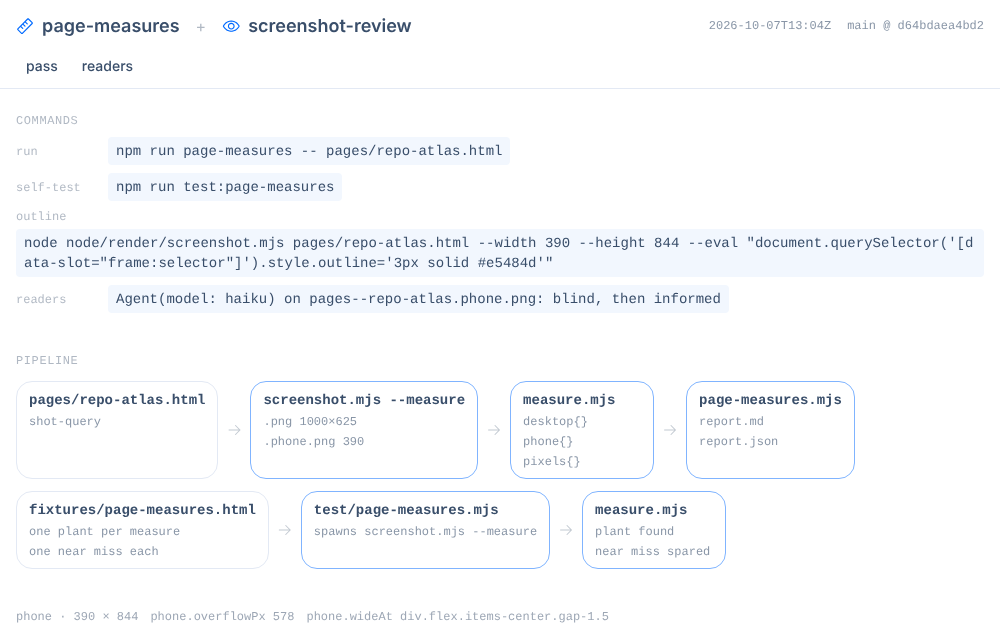
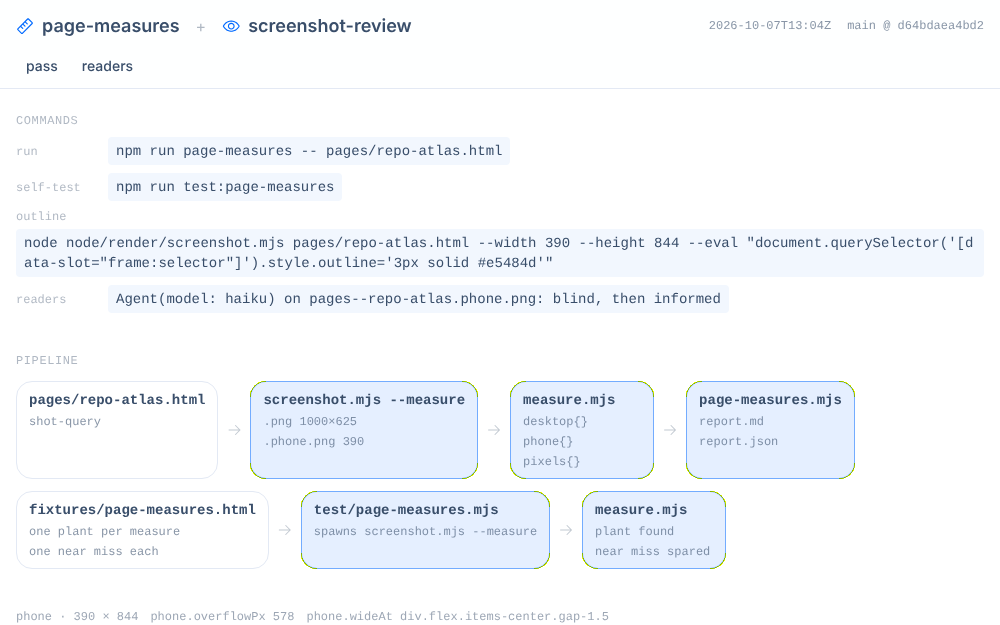
page-measures demo: opacity steps on daisyUI's ramp
Claude-Session: https://claude.ai/code/session_014K4WXMjp9EzLFYb4VsjeTD

Changed region(s): [[0.248, 0.608, 0.868, 0.912]]

diff --git a/pages/guides/page-measures.html b/pages/guides/page-measures.html
@@ -25,7 +25,7 @@
 </head>
 <body class="min-h-dvh bg-base-100 text-base-content" x-data="demo()">
 
-<header class="sticky top-0 z-10 bg-base-100/95 backdrop-blur border-b border-base-300">
+<header class="sticky top-0 z-10 bg-base-100/90 backdrop-blur border-b border-base-300">
   <div class="px-4 py-3 flex flex-wrap items-center gap-x-4 gap-y-2">
     <h1 class="text-lg font-semibold flex items-center gap-2"><i class="ph ph-ruler text-primary"></i>page-measures</h1>
     <span class="text-base-content/40">+</span>
@@ -62,7 +62,7 @@
         <template x-for="(s, i) in d.pipeline" :key="s.name">
           <div class="flex items-stretch gap-2">
             <div class="rounded-box border px-3 py-2 flex flex-col gap-1 min-w-36"
-                 :class="s.kind === 'script' ? 'border-primary/50 bg-primary/5' : 'border-base-300 bg-base-100'">
+                 :class="s.kind === 'script' ? 'border-primary/50 bg-primary/10' : 'border-base-300 bg-base-100'">
               <span class="font-mono text-sm font-semibold" x-text="s.name"></span>
               <template x-for="o in s.out" :key="o"><span class="font-mono text-xs text-base-content/60" x-text="o"></span></template>
             </div>
@@ -74,7 +74,7 @@
         <template x-for="(s, i) in d.selftest_pipeline" :key="s.name">
           <div class="flex items-stretch gap-2">
             <div class="rounded-box border px-3 py-2 flex flex-col gap-1 min-w-36"
-                 :class="s.kind === 'script' ? 'border-primary/50 bg-primary/5' : 'border-base-300 bg-base-100'">
+                 :class="s.kind === 'script' ? 'border-primary/50 bg-primary/10' : 'border-base-300 bg-base-100'">
               <span class="font-mono text-sm font-semibold" x-text="s.name"></span>
               <template x-for="o in s.out" :key="o"><span class="font-mono text-xs text-base-content/60" x-text="o"></span></template>
             </div>
@@ -143,7 +143,7 @@
         <ul class="flex flex-col gap-1.5">
           <template x-for="t in d.selftest.checks" :key="t.name">
             <li class="flex items-baseline gap-2 text-base">
-              <span class="font-mono text-xs px-1.5 rounded" :class="t.ok ? 'bg-success/15 text-success' : 'bg-error/15 text-error'" x-text="t.ok ? 'ok' : 'FAIL'"></span>
+              <span class="font-mono text-xs px-1.5 rounded" :class="t.ok ? 'bg-success/20 text-success' : 'bg-error/20 text-error'" x-text="t.ok ? 'ok' : 'FAIL'"></span>
               <span x-text="t.name"></span>
             </li>
           </template>
